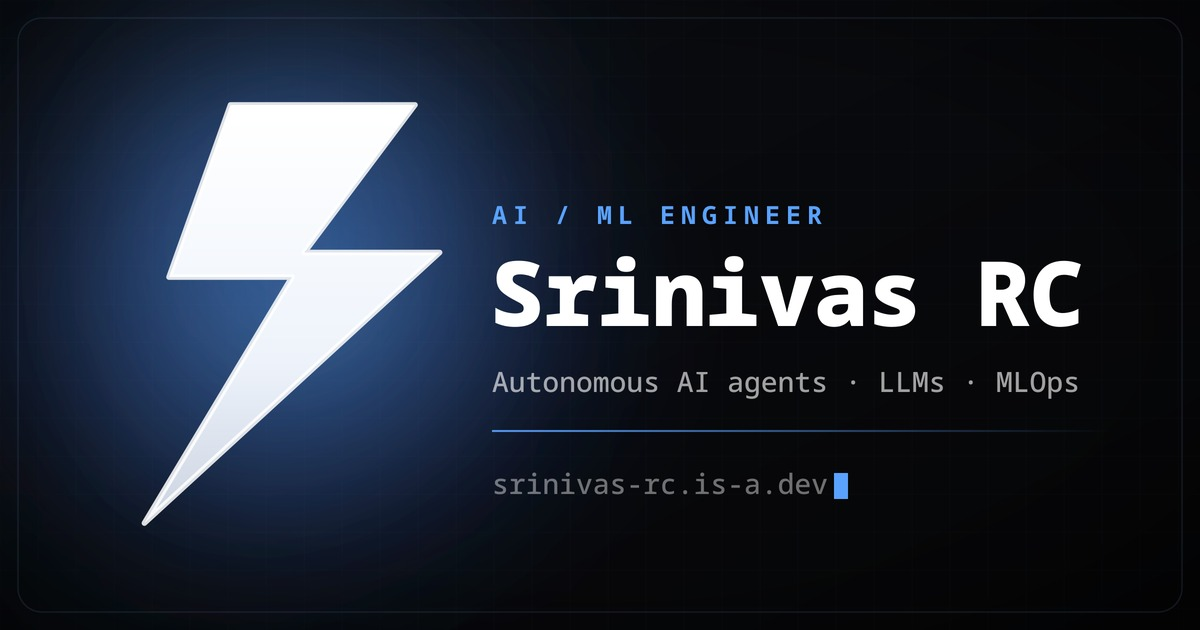
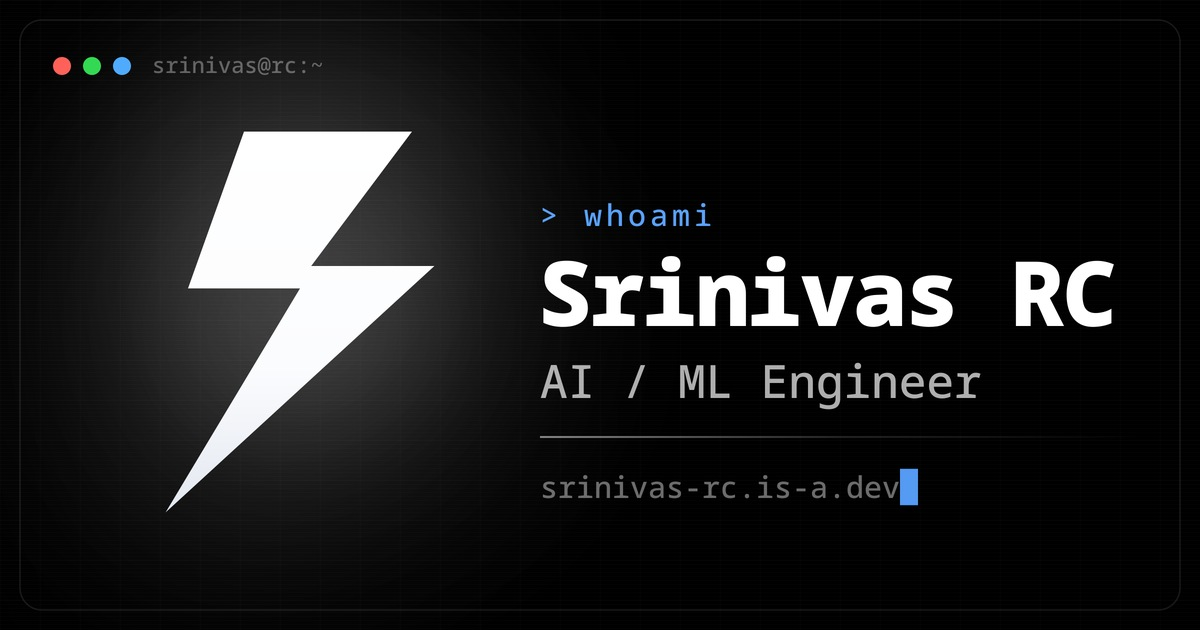
feat(og): true-black share card + single source of truth for the OG path
Card (rebuilt on the terminal-chrome layout that was working):
- Background is now TRUE black (#000000, verified at the pixel level), not
  the grey/navy gradient that was washing the card out.
- Fixed the cursor covering the "v" of .dev. It was a hand-positioned
  <rect> whose x was guessed from font metrics. It is now a real U+2588
  FULL BLOCK glyph inside the text run, so mono advance widths place it
  after the final character automatically — it cannot overlap again.
- Dropped the die-cut ring around the bolt: a stroked outline rendered as
  a muddy grey band against true black. The glow is now cast from the
  filled silhouette, leaving a crisp unbroken white edge.
- Rebalanced the vertical rhythm so the text block's optical centre sits
  with the bolt's instead of hanging ~50px below it.
- Depth comes from a white spotlight + grid + CRT scanlines (all under 3%
  opacity) so the field stays black with no colour cast.
- Source kept at design/opengraph-card.svg so the card stays editable.

Architecture: the OG path was hand-written in eight files, which is how it
previously drifted to an extension-less URL that 404'd on every subpage.
It is now declared once as DEFAULT_OG_IMAGE / OG_IMAGE_URL in seo-config
and imported by layout and all six pages, carrying a ?v= cache buster
(the asset is served immutable for a year, so a redesign would otherwise
stay stuck in CDN and social caches).

Verified: og:image resolves on home + all 5 subpages + JSON-LD, image 200
[…]

diff --git a/app/about/page.tsx b/app/about/page.tsx
@@ -1,7 +1,7 @@
 import { Metadata } from "next";
 import BackToHome from "@/components/BackToHome";
 import { jsonLd } from "@/lib/jsonld";
-import { SITE_URL, SITE_NAME, SITE_TAGLINE } from "@/lib/seo-config";
+import { SITE_URL, SITE_NAME, SITE_TAGLINE, OG_IMAGE_URL } from "@/lib/seo-config";
 import { CONTACT_EMAIL } from "@/lib/portfolio-data";
 
 // Enhanced SEO Metadata
@@ -41,7 +41,7 @@ export const metadata: Metadata = {
     locale: "en_IN",
     images: [
       {
-        url: `${SITE_URL}/opengraph-image.jpg`,
+        url: OG_IMAGE_URL,
         width: 1200,
         height: 630,
         alt: `${SITE_NAME} - ${SITE_TAGLINE}`,
@@ -54,7 +54,7 @@ export const metadata: Metadata = {
     title: `About Me | ${SITE_TAGLINE}`,
     description:
       "AI / ML Engineer building LLM-powered web applications and agentic systems. Pursuing B.Tech in AI & ML at REVA University.",
-    images: [`${SITE_URL}/opengraph-image.jpg`],
+    images: [OG_IMAGE_URL],
   },
   robots: {
     index: true,
@@ -125,7 +125,7 @@ const structuredData = {
   familyName: "RC",
   url: SITE_URL,
   mainEntityOfPage: `${SITE_URL}/about`,
-  image: `${SITE_URL}/opengraph-image.jpg`,
+  image: OG_IMAGE_URL,
   email: `mailto:${CONTACT_EMAIL}`,
   jobTitle: "AI / ML Engineer",
   description:
@@ -187,7 +187,7 @@ const aboutPageStructuredData = {
   mainEntity: { "@id": `${SITE_URL}/#person` },
   author: { "@id": `${SITE_URL}/#person` },
   about: { "@id": `${SITE_URL}/#person` },
-  primaryImageOfPage: `${SITE_URL}/opengraph-image.jpg`,
+  primaryImageOfPage: OG_IMAGE_URL,
   isPartOf: { "@id": `${SITE_URL}/#website` },
   breadcrumb: {
     "@id": `${SITE_URL}/about#breadcrumb`,

diff --git a/app/experience/page.tsx b/app/experience/page.tsx
@@ -1,7 +1,7 @@
 import { Metadata } from "next";
 import BackToHome from "@/components/BackToHome";
 import { jsonLd } from "@/lib/jsonld";
-import { SITE_URL, SITE_NAME } from "@/lib/seo-config";
+import { SITE_URL, SITE_NAME, OG_IMAGE_URL } from "@/lib/seo-config";
 
 // Static page — re-render daily so content stays fresh between deploys.
 export const revalidate = 86400;
@@ -39,7 +39,7 @@ export const metadata: Metadata = {
     locale: "en_IN",
     images: [
       {
-        url: `${SITE_URL}/opengraph-image.jpg`,
+        url: OG_IMAGE_URL,
         width: 1200,
         height: 630,
         alt: `${SITE_NAME} — AI / ML Engineer experience`,
@@ -52,7 +52,7 @@ export const metadata: Metadata = {
     title: "Experience | Independent AI Project Work · Open to Placements",
     description:
       "Independent project work building agentic AI systems and ML web apps. Open to internships and university placements.",
-    images: [`${SITE_URL}/opengraph-image.jpg`],
+    images: [OG_IMAGE_URL],
   },
   robots: {
     index: true,
@@ -84,7 +84,7 @@ function buildStructuredData() {
     name: SITE_NAME,
     url: SITE_URL,
     mainEntityOfPage: `${SITE_URL}/experience`,
-    image: `${SITE_URL}/opengraph-image.jpg`,
+    image: OG_IMAGE_URL,
     jobTitle: "AI / ML Engineer",
     seeks: {
       "@type": "Demand",

diff --git a/app/layout.tsx b/app/layout.tsx
@@ -3,7 +3,7 @@ import { jsonLd } from "@/lib/jsonld";
 import { cache } from "react";
 import { JetBrains_Mono } from "next/font/google";
 import { Analytics } from "@vercel/analytics/next";
-import { SITE_URL, SITE_NAME } from "@/lib/seo-config";
+import { SITE_URL, SITE_NAME, DEFAULT_OG_IMAGE } from "@/lib/seo-config";
 import ThemeApplier from "@/components/ThemeApplier";
 import { getSettings } from "@/lib/db";
 import "./globals.css";
@@ -89,7 +89,7 @@ export const metadata: Metadata = {
     siteName: "Srinivas RC Portfolio",
     images: [
       {
-        url: "/opengraph-image.jpg", // Static asset in /public (fast, CDN-cached)
+        url: DEFAULT_OG_IMAGE, // static /public asset, immutable-cached
         width: 1200,
         height: 630,
         alt: "Srinivas RC — AI / ML Engineer",
@@ -103,7 +103,7 @@ export const metadata: Metadata = {
     title: "Srinivas RC | AI / ML Engineer",
     description:
       "AI / ML Engineer building autonomous agent workflows and web applications. Live at srinivas-rc.is-a.dev.",
-    images: ["/opengraph-image.jpg"], // Static asset in /public (fast, CDN-cached)
+    images: [DEFAULT_OG_IMAGE], // static /public asset, immutable-cached
   },
   robots: {
     index: true,

diff --git a/app/skills/page.tsx b/app/skills/page.tsx
@@ -1,4 +1,4 @@
-import { SITE_URL } from "@/lib/seo-config";
+import { SITE_URL, OG_IMAGE_URL } from "@/lib/seo-config";
 import BackToHome from "@/components/BackToHome";
 import { jsonLd } from "@/lib/jsonld";
 import { Metadata } from "next";
@@ -50,7 +50,7 @@ export const metadata: Metadata = {
     locale: "en_IN",
     images: [
       {
-        url: `${SITE_URL}/opengraph-image.jpg`,
+        url: OG_IMAGE_URL,
         width: 1200,
         height: 630,
         alt: "Srinivas RC - Skills & Tech Stack",
@@ -63,7 +63,7 @@ export const metadata: Metadata = {
         title: "Skills & Tech Stack | AI / ML Engineer",
     description:
       "Python, machine learning, LLMs, agentic systems, and Linux. Comprehensive technical skills portfolio.",
-    images: [`${SITE_URL}/opengraph-image.jpg`],
+    images: [OG_IMAGE_URL],
   },
   robots: {
     index: true,
@@ -145,7 +145,7 @@ const structuredData = {
   "@type": "Person",
   name: "Srinivas RC",
   url: SITE_URL,
-  image: `${SITE_URL}/opengraph-image.jpg`,
+  image: OG_IMAGE_URL,
   knowsAbout: [
     ...skillsData.languages,
     ...skillsData.ai_ml,

diff --git a/app/contact/page.tsx b/app/contact/page.tsx
@@ -1,4 +1,4 @@
-import { SITE_URL } from "@/lib/seo-config";
+import { SITE_URL, OG_IMAGE_URL } from "@/lib/seo-config";
 import BackToHome from "@/components/BackToHome";
 import { jsonLd } from "@/lib/jsonld";
 import { Metadata } from "next";
@@ -45,7 +45,7 @@ export const metadata: Metadata = {
     locale: "en_IN",
     images: [
       {
-        url: `${SITE_URL}/opengraph-image.jpg`,
+        url: OG_IMAGE_URL,
         width: 1200,
         height: 630,
         alt: "Srinivas RC — Contact",
@@ -58,7 +58,7 @@ export const metadata: Metadata = {
         title: "Contact | Get in Touch with an AI / ML Engineer",
     description:
       "Connect with Srinivas RC for project collaborations and development opportunities. Available for hire.",
-    images: [`${SITE_URL}/opengraph-image.jpg`],
+    images: [OG_IMAGE_URL],
   },
   robots: {
     index: true,
@@ -281,7 +281,7 @@ const structuredData = {
   "@type": "Person",
   name: "Srinivas RC",
   url: SITE_URL,
-  image: `${SITE_URL}/opengraph-image.jpg`,
+  image: OG_IMAGE_URL,
   email: CONTACT_EMAIL,
   address: {
     "@type": "PostalAddress",

diff --git a/lib/seo-config.ts b/lib/seo-config.ts
@@ -24,8 +24,19 @@ export const SITE_NAME = "Srinivas RC";
 export const SITE_TAGLINE = "AI / ML Engineer";
 export const AUTHOR_URL = SITE_URL;
 export const TWITTER_HANDLE = "";
-export const DEFAULT_OG_IMAGE = "/opengraph-image.jpg";
-export const LOGO_URL = `${SITE_URL}/opengraph-image.jpg`;
+/**
+ * The share card. Declared ONCE and imported everywhere — this path used to be
+ * hand-written in eight files, which is how it silently drifted to an
+ * extension-less URL that 404'd on every subpage.
+ *
+ * The `?v=` is a cache buster: the asset is served `immutable` for a year, so
+ * without it a redesigned card would stay stuck in CDN and social caches.
+ * BUMP IT whenever design/opengraph-card.svg is re-rendered.
+ */
+export const DEFAULT_OG_IMAGE = "/opengraph-image.jpg?v=2";
+export const OG_IMAGE_URL = `${SITE_URL}${DEFAULT_OG_IMAGE}`;
+/** Structured-data logo (schema.org) — same artwork. */
+export const LOGO_URL = OG_IMAGE_URL;
 
 export function toIsoDateTime(dateStr?: string): string | undefined {
   if (!dateStr) return undefined;

diff --git a/app/projects/page.tsx b/app/projects/page.tsx
@@ -1,4 +1,4 @@
-import { SITE_URL } from "@/lib/seo-config";
+import { SITE_URL, OG_IMAGE_URL } from "@/lib/seo-config";
 import BackToHome from "@/components/BackToHome";
 import { jsonLd } from "@/lib/jsonld";
 import { Metadata } from "next";
@@ -49,7 +49,7 @@ export const metadata: Metadata = {
     locale: "en_IN",
     images: [
       {
-        url: `${SITE_URL}/opengraph-image.jpg`,
+        url: OG_IMAGE_URL,
         width: 1200,
         height: 630,
         alt: "Srinivas RC — AI / ML Engineer Projects",
@@ -62,7 +62,7 @@ export const metadata: Metadata = {
         title: "Projects | AI / ML Engineer Portfolio",
     description:
       "Agentic AI systems and machine learning web applications by an AI / ML Engineer.",
-    images: [`${SITE_URL}/opengraph-image.jpg`],
+    images: [OG_IMAGE_URL],
   },
   robots: {
     index: true,

diff --git a/app/(shell)/page.tsx b/app/(shell)/page.tsx
@@ -1,4 +1,4 @@
-import { SITE_URL } from "@/lib/seo-config";
+import { SITE_URL, OG_IMAGE_URL } from "@/lib/seo-config";
 import { jsonLd } from "@/lib/jsonld";
 import { CONTACT_EMAIL } from "@/lib/portfolio-data";
 import HomeTerminal from "@/components/HomeTerminal";
@@ -16,7 +16,7 @@ export default function Home() {
     jobTitle: "AI / ML Engineer",
     description:
       "AI / ML Engineer building web applications powered by Large Language Models and agentic systems",
-    image: `${SITE_URL}/opengraph-image.jpg`,
+    image: OG_IMAGE_URL,
     email: CONTACT_EMAIL,
     address: {
       "@type": "PostalAddress",
